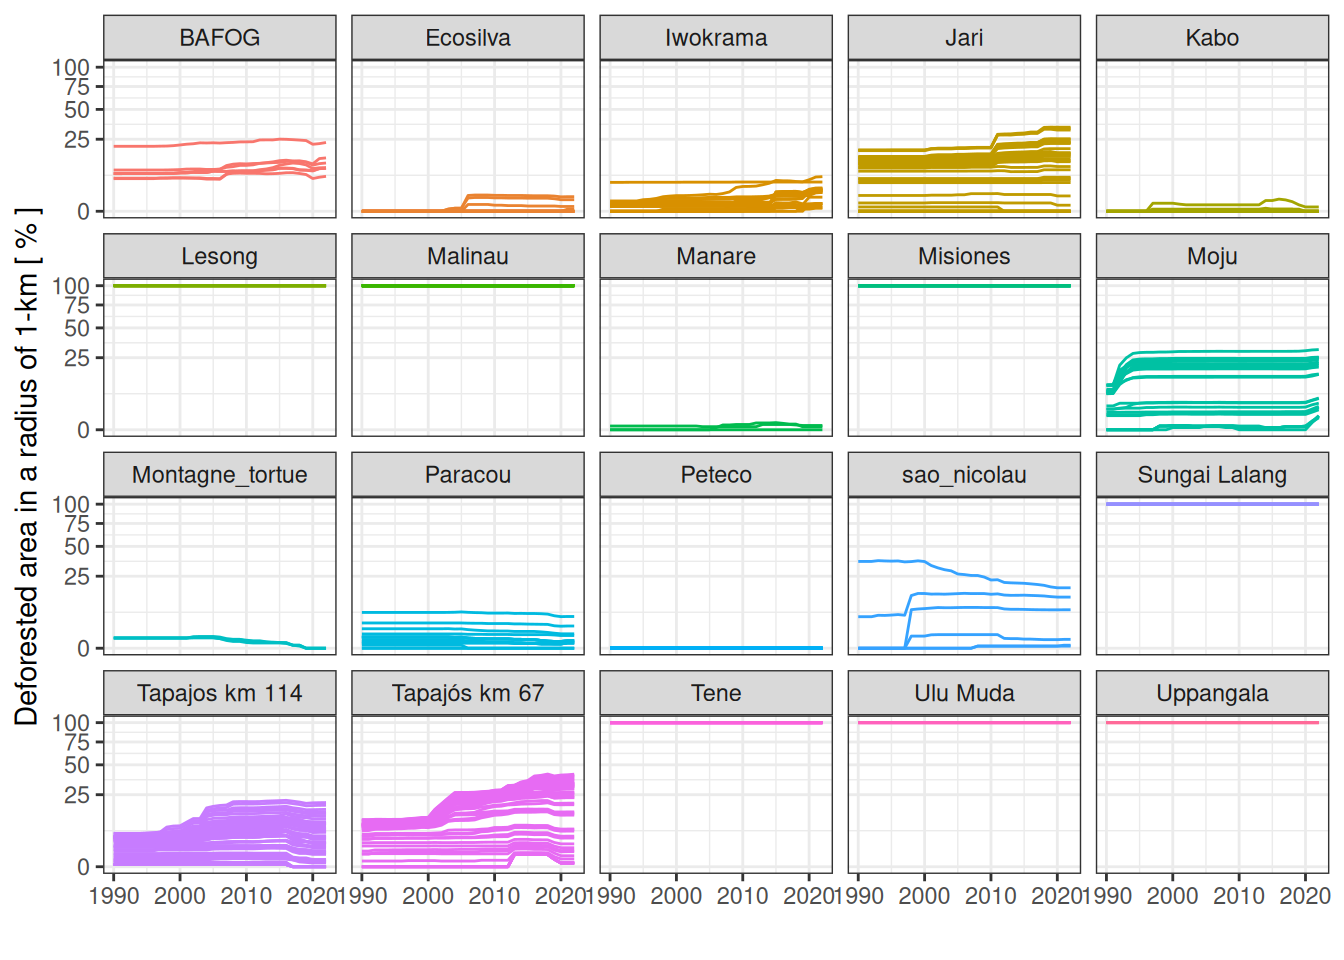
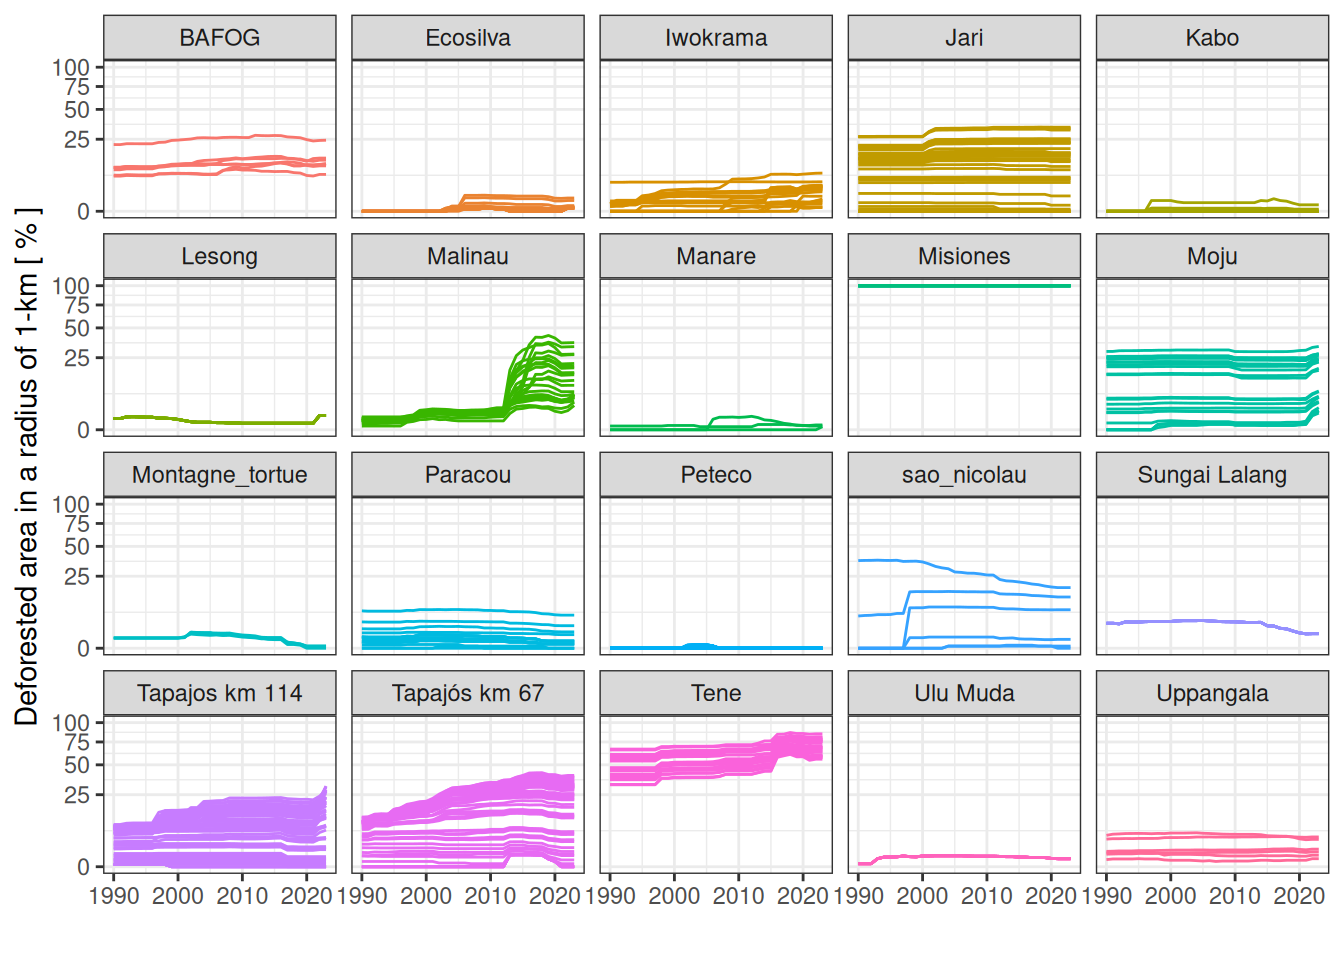
environment 0.1.0.9011: tmf extraction fixed for all except missiones, #1

diff --git a/docs/15_landscape.html b/docs/15_landscape.html
@@ -237,7 +237,7 @@ div.csl-indent {
 <div class="cell">
 <details>
 <summary>Code</summary>
-<div class="sourceCode cell-code" id="cb1"><pre class="sourceCode r code-with-copy"><code class="sourceCode r"><span id="cb1-1"><a href="#cb1-1" aria-hidden="true" tabindex="-1"></a><span class="fu">list.files</span>(<span class="st">"data/landscape/"</span>, <span class="at">full.names =</span> <span class="cn">TRUE</span>) <span class="sc">%&gt;%</span></span>
+<div class="sourceCode cell-code" id="cb1"><pre class="sourceCode r code-with-copy"><code class="sourceCode r"><span id="cb1-1"><a href="#cb1-1" aria-hidden="true" tabindex="-1"></a><span class="fu">list.files</span>(<span class="st">"data/derived_data/landscape/"</span>, <span class="at">full.names =</span> <span class="cn">TRUE</span>) <span class="sc">%&gt;%</span></span>
 <span id="cb1-2"><a href="#cb1-2" aria-hidden="true" tabindex="-1"></a>  <span class="fu">read_tsv</span>() <span class="sc">%&gt;%</span></span>
 <span id="cb1-3"><a href="#cb1-3" aria-hidden="true" tabindex="-1"></a>  <span class="fu">group_by</span>(site, plot, year, forest) <span class="sc">%&gt;%</span></span>
 <span id="cb1-4"><a href="#cb1-4" aria-hidden="true" tabindex="-1"></a>  <span class="fu">summarise</span>(<span class="at">n =</span> <span class="fu">n</span>()) <span class="sc">%&gt;%</span></span>

diff --git a/scripts/get_landscape.py b/scripts/get_landscape.py
@@ -24,18 +24,25 @@ sites = pd.read_table(sites_tab)
 sites['site_plot'] = sites['site'] + "_" + sites['plot']
 sites = sites[sites["site_plot"]==site]
 ee.Initialize(opt_url='https://earthengine-highvolume.googleapis.com')
+
 leg = ee.Geometry.Rectangle(sites["longitude"].values[0]-radius, sites["latitude"].values[0]-radius, 
                             sites["longitude"].values[0]+radius, sites["latitude"].values[0]+radius)
-
-ic = ee.ImageCollection("projects/JRC/TMF/v1_2022/AnnualChanges")
+ic = ee.ImageCollection("projects/JRC/TMF/v1_2023/AnnualChanges")
 ds = xr.open_mfdataset(
         [ic],
         engine='ee',
         projection=ic.first().select(0).projection(),
         geometry=leg
-).sel(time=2).drop('time')
+)
+if not np.isnan(ds["Dec2023"].sel(time=0).values[0][0]): 
+    time_index = 0
+if not np.isnan(ds["Dec2023"].sel(time=1).values[0][0]): 
+    time_index = 1
+if not np.isnan(ds["Dec2023"].sel(time=2).values[0][0]): 
+    time_index = 2
+ds = ds.sel(time=time_index).drop('time')
 ds2 = ds.to_array("year", name="tmf").to_dataset().assign_coords(
-    year=np.arange(1990,2023)
+    year=np.arange(1990,2024)
 )
 forest = ds2[["lon", "lat", "year"]]
 forest["forest"] = (ds2.tmf.isin([1,2,4])).astype(int)

diff --git a/NEWS.md b/NEWS.md
@@ -1,3 +1,4 @@
+-   environment 0.1.0.9011: tmf extraction fixed for all except missiones, #1
 -   environment 0.1.0.9010: esri wolrd imagery in site map for manual inspection of landscape, #1
 -   environment 0.1.0.9009: structure update
 -   environment 0.1.0.9008: all text, and Tené fixed
